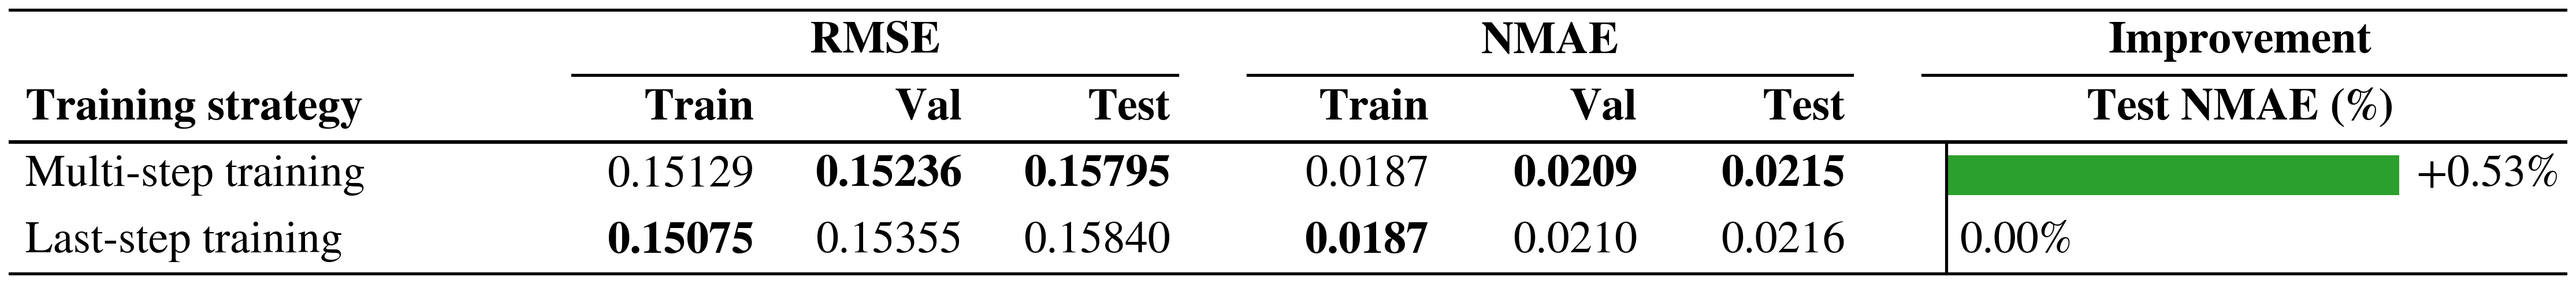
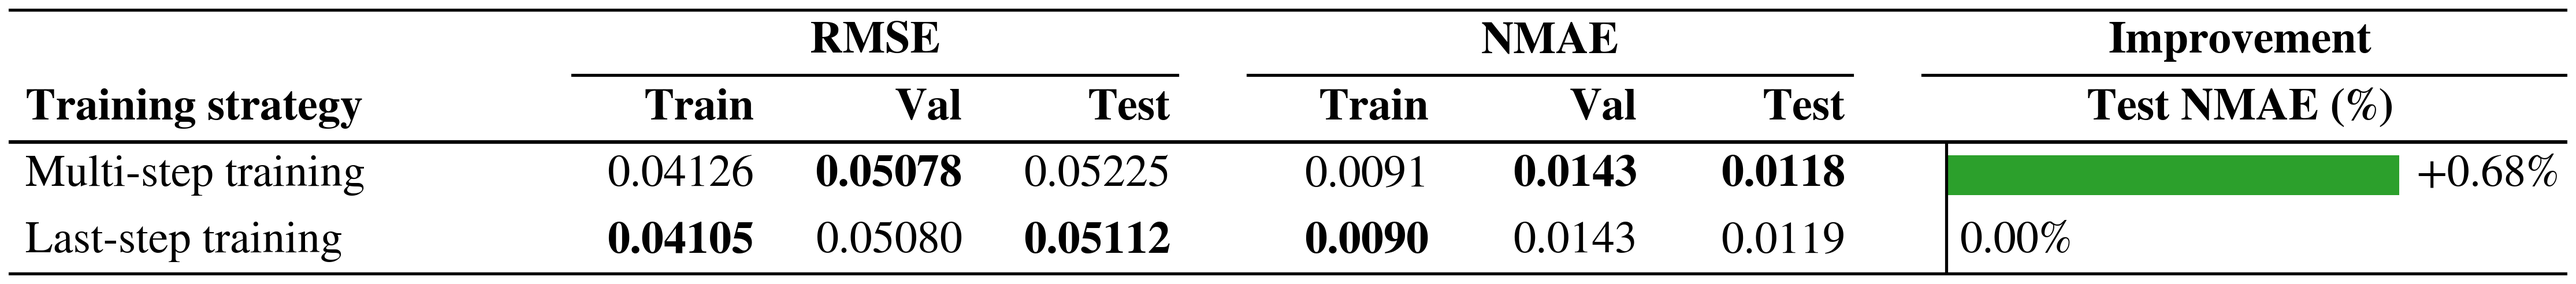
img finished

diff --git a/Notebooks_final/ORESUND/helpers.py b/Notebooks_final/ORESUND/helpers.py
@@ -9,6 +9,7 @@ import numpy as np          #type: ignore
 import matplotlib.pyplot as plt  #type: ignore
 from src.engine import SHREDEngine
 from src.utils import evaluate_reconstruction_metrics
+import gc
 
 obs_fldr = "datasets/observations/" 
 df_stn = pd.read_csv(obs_fldr + "stations.csv", index_col=0)
@@ -37,6 +38,31 @@ def get_wl_point_obs():
         o = ms.PointObservation(series, x=row['Longitude'], y=row['Latitude'], name=i, quantity=q)
         wllist.append(o)
     return wllist
+
+def load_hydro_fields(dfs, items=("Surface elevation", "U velocity", "V velocity")):
+    """Read dfsu items one field at a time and drop spatially invalid elements.
+
+    The NaN mask is taken from the first item. Each MikeIO dataset is released
+    before the next item is read so the full (H, U, V) cube is never resident
+    twice.
+    """
+    items = list(items)
+    ds0 = dfs.read(items=items[0], dtype=np.float32, time = slice("2020-01-01", "2023-12-31"))
+    time = ds0.time
+    values0 = np.asarray(ds0[items[0]].values)
+    del ds0
+    valid = ~np.isnan(values0).any(axis=0)
+    element_index = np.flatnonzero(valid)
+    fields = {items[0]: np.ascontiguousarray(values0[:, valid], dtype=np.float32)}
+    del values0
+    gc.collect()
+
+    for item in items[1:]:
+        ds = dfs.read(items=item, elements=element_index, dtype=np.float32)
+        fields[item] = np.ascontiguousarray(ds[item].values, dtype=np.float32)
+        del ds
+        gc.collect()
+    return time, fields, valid
 
 def get_u_v_point_obs():
     # Get current point observations as two lists of PointObservation objects
@@ -287,6 +313,27 @@ def eval_all(
 
     del engine, reconstructions, ground_truths, metrics, split_datasets, split_indices, manager, mshred, train_dataset, val_dataset, test_dataset, H, U, V 
     return records
+
+def reshape_and_permute_months(*arrays, steps_per_month=30 * 24 * 2, seed=42):
+    """Truncate to full months, reshape ``(nmonths, steps, features)``, permute months.
+
+    Arrays are rewritten one at a time so only one extra field-sized copy exists
+    during the permutation.
+    """
+    ntimes = arrays[0].shape[0]
+    nmonths = ntimes // steps_per_month
+    nkeep = nmonths * steps_per_month
+    np.random.seed(seed)
+    perm = np.random.permutation(nmonths)
+
+    out = []
+    for array in arrays:
+        reshaped = array[:nkeep].reshape(nmonths, steps_per_month, -1)
+        permuted = np.ascontiguousarray(reshaped[perm])
+        del reshaped
+        out.append(permuted)
+    gc.collect()
+    return nmonths, nkeep, perm, tuple(out)
 
 def plot_shred_reconstruction(test_reconstruction, ds, geom, plot_time=None, items=None, cmaps=None, title_suffix=""):
     
